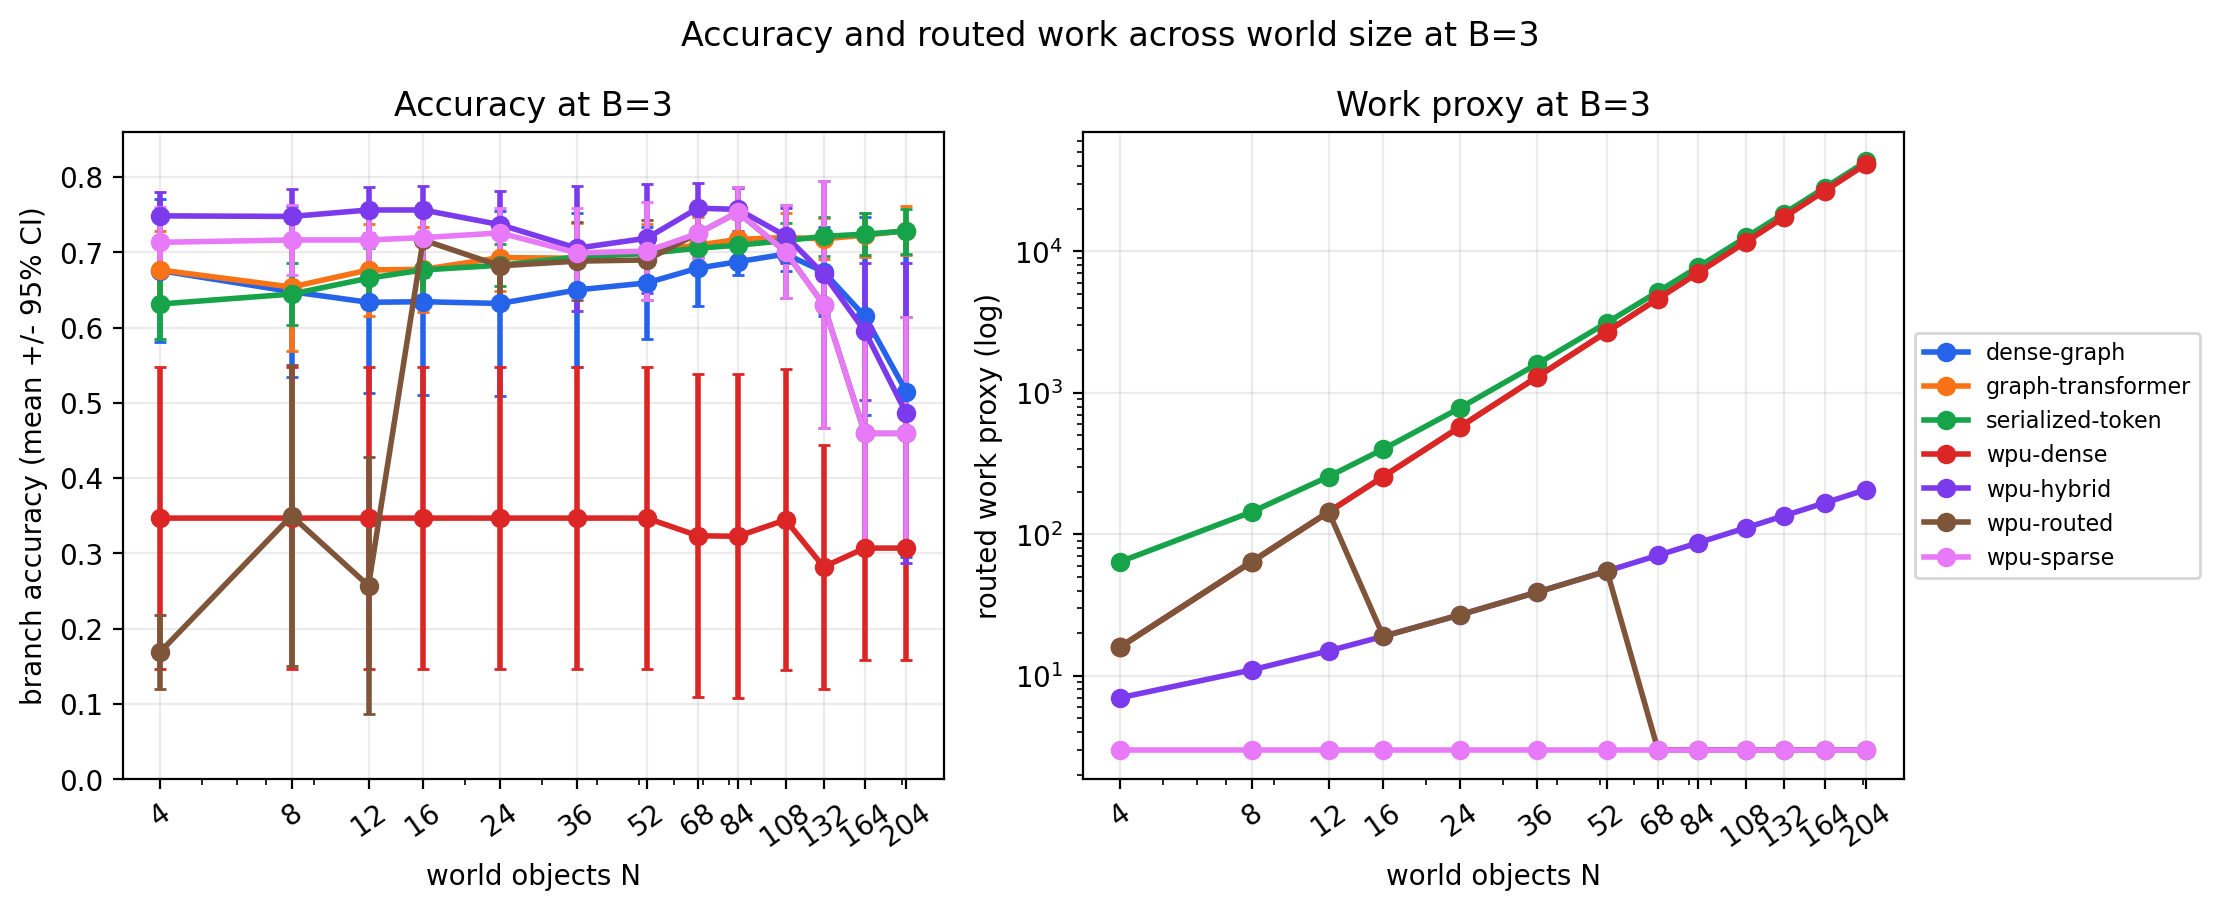
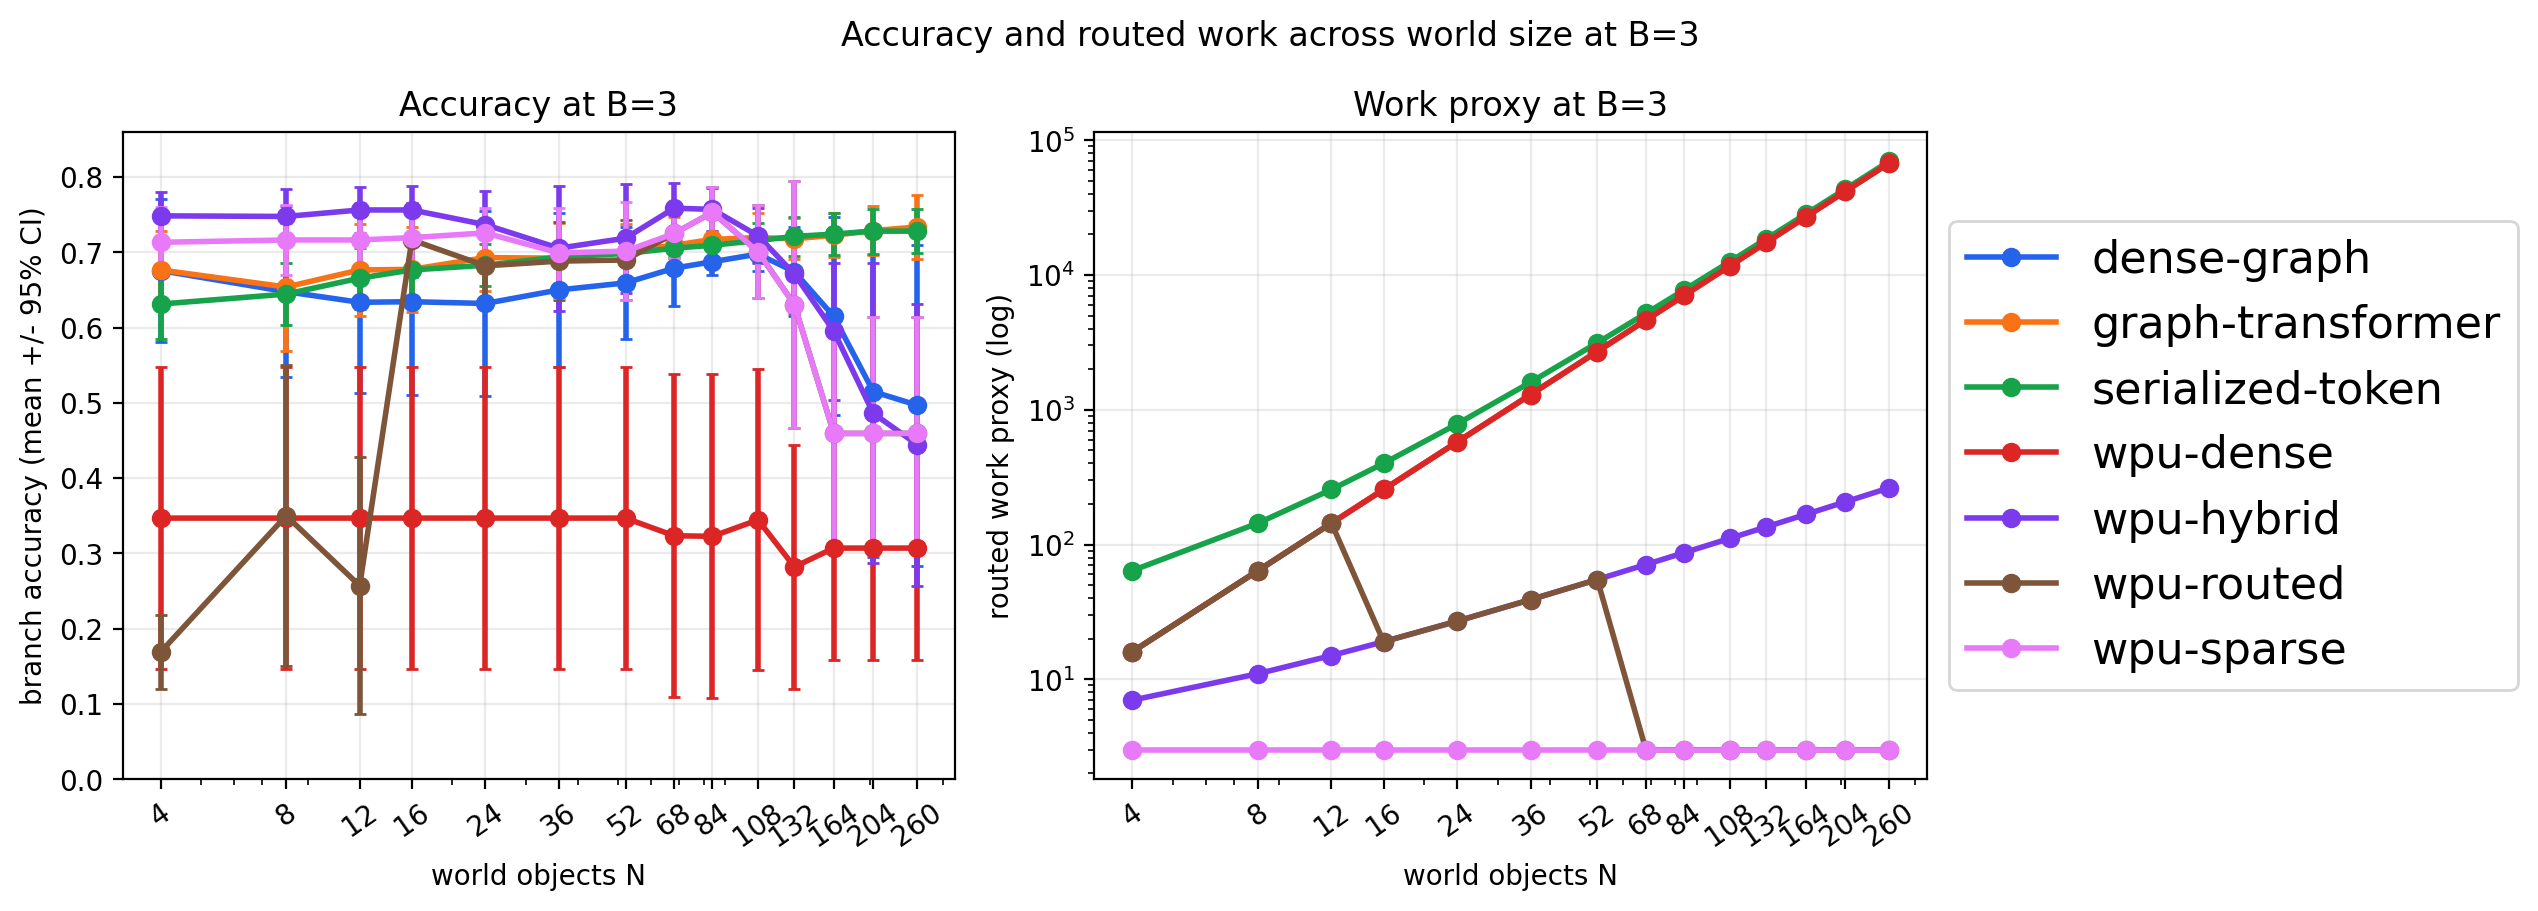
Increase regime figure legend size

diff --git a/scripts/plot_regime_results.py b/scripts/plot_regime_results.py
@@ -12,7 +12,7 @@ import matplotlib.pyplot as plt
 
 def main() -> None:
     parser = argparse.ArgumentParser()
-    parser.add_argument("--input", type=Path, default=Path("artifacts/regime_sweep_trained.csv"))
+    parser.add_argument("--input", type=Path, default=Path("artifacts/n_sweep_v1/regime_sweep.csv"))
     parser.add_argument("--output-dir", type=Path, default=Path("docs/figures"))
     parser.add_argument("--max-n", type=int, default=None)
     args = parser.parse_args()
@@ -55,7 +55,7 @@ def _plot_route_regime(rows: list[dict[str, str]], output: Path) -> None:
         axis.set_ylim(-0.05, 1.05)
         axis.grid(True, alpha=0.25)
     axes[0].set_ylabel("route ratio")
-    axes[-1].legend(loc="center left", bbox_to_anchor=(1.0, 0.5))
+    axes[-1].legend(loc="center left", bbox_to_anchor=(1.0, 0.5), fontsize=16)
     fig.suptitle("Routed WPU switches execution path as affected-state fraction changes")
     fig.tight_layout()
     fig.savefig(output, dpi=200, bbox_inches="tight")
@@ -77,7 +77,7 @@ def _plot_accuracy_work(rows: list[dict[str, str]], output: Path) -> None:
         "wpu-routed": "#7f5539",
         "wpu-sparse": "#e879f9",
     }
-    fig, axes = plt.subplots(1, 2, figsize=(11.2, 4.6), sharex=True)
+    fig, axes = plt.subplots(1, 2, figsize=(12.8, 4.6), sharex=True)
     for model in models:
         xs, ys, yerrs, works = [], [], [], []
         for n in ns:
@@ -121,7 +121,7 @@ def _plot_accuracy_work(rows: list[dict[str, str]], output: Path) -> None:
     axes[1].set_yscale("log")
     axes[1].set_ylabel("routed work proxy (log)")
     axes[1].set_title("Work proxy at B=3")
-    axes[1].legend(loc="center left", bbox_to_anchor=(1.0, 0.5), fontsize=8)
+    axes[1].legend(loc="center left", bbox_to_anchor=(1.0, 0.5), fontsize=16)
     fig.suptitle("Accuracy and routed work across world size at B=3")
     fig.tight_layout()
     fig.savefig(output, dpi=200, bbox_inches="tight")